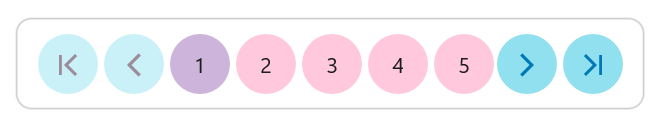
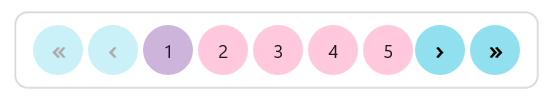
Added Navigation Button Template Code

diff --git a/MAUI/DataPager/appearance.md b/MAUI/DataPager/appearance.md
@@ -100,6 +100,63 @@ To apply custom style, follow the code example:
                                       NavigationButtonIconColor="#0077b6"
                                       NavigationButtonDisableBackgroundColor="#caf0f8"
                                       NavigationButtonDisableIconColor="#9a8c98">
+
+                    <pager:DataPagerStyle.FirstPageButtonTemplate>
+                        <DataTemplate>
+                            <Label Text="«"
+                                   FontSize="22"
+                                   TranslationY="-1"
+                                   FontAttributes="Bold"
+                                   HorizontalTextAlignment="Center"
+                                   VerticalTextAlignment="Center"
+                                   HorizontalOptions="Center"
+                                   VerticalOptions="Center"
+                                   Margin="8,0" />
+                        </DataTemplate>
+                    </pager:DataPagerStyle.FirstPageButtonTemplate>
+
+                    <pager:DataPagerStyle.LastPageButtonTemplate>
+                        <DataTemplate>
+                            <Label Text="»"
+                                   FontSize="22"
+                                   FontAttributes="Bold"
+                                   TranslationY="-1"
+                                   HorizontalTextAlignment="Center"
+                                   VerticalTextAlignment="Center"
+                                   HorizontalOptions="Center"
+                                   VerticalOptions="Center"
+                                   Margin="8,0" />
+                        </DataTemplate>
+                    </pager:DataPagerStyle.LastPageButtonTemplate>
+
+                    <pager:DataPagerStyle.PreviousPageButtonTemplate>
+                        <DataTemplate>
+                            <Label Text="‹"
+                                   FontSize="22"
+                                   FontAttributes="Bold"
+                                   TranslationY="-1"
+                                   HorizontalTextAlignment="Center"
+                                   VerticalTextAlignment="Center"
+                                   HorizontalOptions="Center"
+                                   VerticalOptions="Center"
+                                   Margin="8,0" />
+                        </DataTemplate>
+                    </pager:DataPagerStyle.PreviousPageButtonTemplate>
+
+                    <pager:DataPagerStyle.NextPageButtonTemplate>
+                        <DataTemplate>
+                            <Label Text="›"
+                                   FontSize="22"
+                                   FontAttributes="Bold"
+                                   TranslationY="-1"
+                                   HorizontalTextAlignment="Center"
+                                   VerticalTextAlignment="Center"
+                                   HorizontalOptions="Center"
+                                   VerticalOptions="Center"
+                                   Margin="8,0" />
+                        </DataTemplate>
+                    </pager:DataPagerStyle.NextPageButtonTemplate>
+
                 </pager:DataPagerStyle>
             </pager:SfDataPager.DefaultStyle>
         </pager:SfDataPager>
@@ -120,6 +177,71 @@ dataPagerStyle.NavigationButtonBackgroundColor = Color.FromArgb("#90E0EF");
 dataPagerStyle.NavigationButtonIconColor = Color.FromArgb("#0077B6");
 dataPagerStyle.NavigationButtonDisableBackgroundColor = Color.FromArgb("#CAF0F8");
 dataPagerStyle.NavigationButtonDisableIconColor = Color.FromArgb("#9A8C98");
+
+dataPagerStyle.FirstPageButtonTemplate = new DataTemplate(() =>
+{
+    return new Label
+    {
+        Text = "«",
+        FontSize = 22,
+        FontAttributes = FontAttributes.Bold,
+        TranslationY = -1,
+        HorizontalTextAlignment = TextAlignment.Center,
+        VerticalTextAlignment = TextAlignment.Center,
+        HorizontalOptions = LayoutOptions.Center,
+        VerticalOptions = LayoutOptions.Center,
+        Margin = new Thickness(8, 0)
+    };
+});
+
+dataPagerStyle.LastPageButtonTemplate = new DataTemplate(() =>
+{
+    return new Label
+    {
+        Text = "»",
+        FontSize = 22,
+        FontAttributes = FontAttributes.Bold,
+        TranslationY = -1,
+        HorizontalTextAlignment = TextAlignment.Center,
+        VerticalTextAlignment = TextAlignment.Center,
+        HorizontalOptions = LayoutOptions.Center,
+        VerticalOptions = LayoutOptions.Center,
+        Margin = new Thickness(8, 0)
+    };
+});
+
+dataPagerStyle.PreviousPageButtonTemplate = new DataTemplate(() =>
+{
+    return new Label
+    {
+        Text = "‹",
+        FontSize = 22,
+        FontAttributes = FontAttributes.Bold,
+        TranslationY = -1,
+        HorizontalTextAlignment = TextAlignment.Center,
+        VerticalTextAlignment = TextAlignment.Center,
+        HorizontalOptions = LayoutOptions.Center,
+        VerticalOptions = LayoutOptions.Center,
+        Margin = new Thickness(8, 0)
+    };
+});
+
+dataPagerStyle.NextPageButtonTemplate = new DataTemplate(() =>
+{
+    return new Label
+    {
+        Text = "›",
+        FontSize = 22,
+        FontAttributes = FontAttributes.Bold,
+        TranslationY = -1,
+        HorizontalTextAlignment = TextAlignment.Center,
+        VerticalTextAlignment = TextAlignment.Center,
+        HorizontalOptions = LayoutOptions.Center,
+        VerticalOptions = LayoutOptions.Center,
+        Margin = new Thickness(8, 0)
+    };
+});
+
 dataPager.DefaultStyle = dataPagerStyle;
 
 Border border = new Border();
